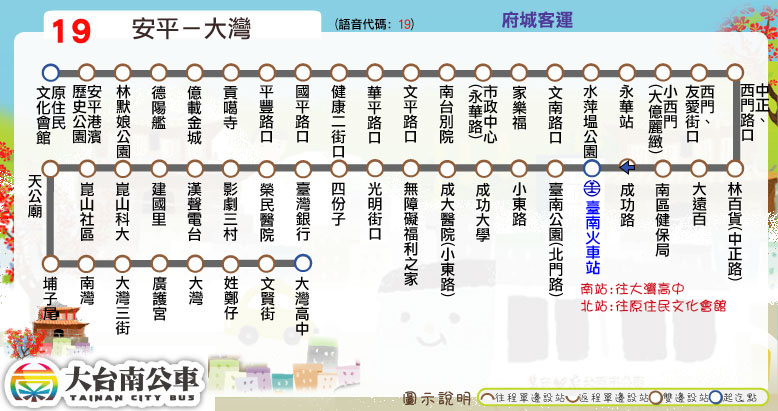
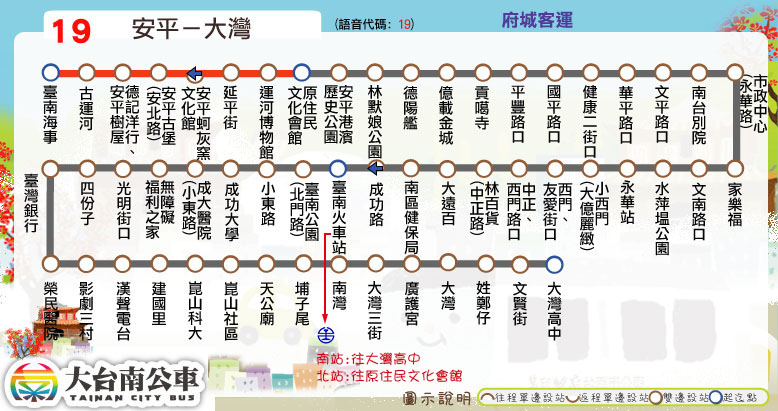
更新時刻表及路線圖：19路 (平日部分班次延駛臺南海事)

Changed region(s): [[0.0308, 0.146, 1.0, 0.9343], [0.0308, 0.4088, 0.0617, 0.5547], [0.3085, 0.6131, 0.3393, 0.6423]]

diff --git a/route/fare_and_time/city_bus_19.js b/route/fare_and_time/city_bus_19.js
@@ -1,22 +1,30 @@
 // format = [time at the start stop] or
 // [time, other] or
 // [time, start_stop, end_stop, other]
-city_bus_19_main_stop_name = ["原住民<br />文化會館","億載金城","市政中心<br />(永華路)","林百貨<br />(中正路)","臺南<br />火車站","成功大學","崑山科大","大灣高中"];
-city_bus_19_main_stop_time_consume = [0, 4, 10, 22, 30, 34, 50, 60];
-city_bus_19_important_stop = [0, 4, 7]; // 原住民文化會館, 臺南火車站, 大灣高中
-start_idx = 4;
-end_idx = 7;
-end_idx2 = 0;
-city_bus_19_time_go = [["05:50",start_idx,end_idx,[[end_idx-1,-5,end_idx,-5]]],["06:10",start_idx,end_idx,[[end_idx,-5]]],
-["06:30",start_idx,end_idx],["06:20"],["06:40",[[3,-3,4,-2]]],["07:10"],["07:55",[[3,-3,4,-2]]],["08:40",[[3,-3,4,-2]]],
-["09:25",[[3,-3,4,-2]]],["10:10"],["10:55",[[3,-3,4,-2]]],["11:40"],["12:25",[[2,3,3,2]]],["13:10",[[3,-3,4,-2]]],["13:55"],
-["14:40",[[3,-3,4,-2]]],["15:15",[[3,-3,4,-2]]],["16:00",start_idx,end_idx],["16:00",[[3,-3,4,-2]]],["16:45"],
-["17:30",start_idx,end_idx],["17:25"],["18:10",[[3,-3,4,-2]]],["18:55"],["19:40",[[3,-3,4,-2]]],["20:25",[[3,-3,4,-2]]],
-["21:10",[[3,-3,4,-2]]],["22:00",[[3,-3,4,-2]]]
+city_bus_19_main_stop_name = ["臺南海事","原住民<br />文化會館","億載金城","市政中心<br />(永華路)","林百貨<br />(中正路)","臺南<br />火車站","成功大學","崑山科大","大灣高中"];
+city_bus_19_main_stop_time_consume = [0, 7, 11, 17, 29, 37, 41, 57, 67];
+city_bus_19_important_stop = [0, 1, 5, 8]; // 臺南海事, 原住民文化會館, 臺南火車站, 大灣高中
+var tra_tainan = 5; // 臺南火車站
+var start_stop = 1; // 原住民文化會館
+var end_stop = 8; // 大灣高中
+city_bus_19_time_go = [["05:50",tra_tainan,end_stop,[[end_stop-1,-5,end_stop,-5]]],["06:10",tra_tainan,end_stop,[[end_stop,-5]]],
+["06:30",tra_tainan,end_stop],["06:20",start_stop,end_stop],["06:45",start_stop,end_stop,[[tra_tainan-1,-3,tra_tainan,-2]]],
+["07:18",['W']],["08:00",start_stop,end_stop,[[tra_tainan-1,-3,tra_tainan,-2]]],["08:40",start_stop,end_stop,[[tra_tainan-1,-3,tra_tainan,-2]]],
+["09:25",start_stop,end_stop,[[tra_tainan-1,-3,tra_tainan,-2]]],["10:10",start_stop,end_stop],["10:55",start_stop,end_stop,[[tra_tainan-1,-3,tra_tainan,-2]]],
+["11:40",start_stop,end_stop],["12:25",start_stop,end_stop,[[2,3,3,2]]],["13:10",start_stop,end_stop,[[tra_tainan-1,-3,tra_tainan,-2]]],["13:55",start_stop,end_stop],
+["14:40",start_stop,end_stop,[[tra_tainan-1,-3,tra_tainan,-2]]],["15:15",start_stop,end_stop,[[tra_tainan-1,-3,tra_tainan,-2]]],
+["16:00",tra_tainan,end_stop],["16:00",start_stop,end_stop,[[tra_tainan-1,-3,tra_tainan,-2]]],
+["16:45",start_stop,end_stop],["17:30",tra_tainan,end_stop],["17:23",['W']],
+["18:10",start_stop,end_stop,[[tra_tainan-1,-3,tra_tainan,-2]]],["18:55",start_stop,end_stop],["19:40",start_stop,end_stop,[[tra_tainan-1,-3,tra_tainan,-2]]],
+["20:25",start_stop,end_stop,[[tra_tainan-1,-3,tra_tainan,-2]]],["21:10",start_stop,end_stop,[[tra_tainan-1,-3,tra_tainan,-2]]],
+["22:00",start_stop,end_stop,[[tra_tainan-1,-3,tra_tainan,-2]]]
 ];
-city_bus_19_time_return = [["06:00",start_idx,end_idx2,[[2,-3,1,-5,0,-2]]],["06:10",start_idx,end_idx2],["06:10"],
-["06:35",[[start_idx+1,-5]]],["07:00"],["07:40"],["08:40"],["09:30",[[start_idx,-5]]],["10:15"],["11:00"],["11:45"],
-["12:20",[[start_idx+1,-5]]],["13:05"],["13:50",[[start_idx+1,-5]]],["14:35"],["15:20"],["16:00",[[start_idx,5]]],
-["16:30",[[start_idx,5]]],["17:15"],["17:35"],["18:00"],["18:55",[[start_idx,5]]],["19:40"],["20:25"],["21:10"],
-["21:30",end_idx,start_idx],["22:00",[[start_idx+1,-5]]]
+city_bus_19_time_return = [["06:00",tra_tainan,start_stop,[[3,-3,2,-5,1,-2]]],["06:10",tra_tainan,start_stop],["06:10",['W']],
+["06:35",end_stop,start_stop,[[tra_tainan+1,-5]]],["07:00",end_stop,start_stop],["07:40",end_stop,start_stop],["08:40",end_stop,start_stop],
+["09:30",end_stop,start_stop,[[tra_tainan,-5]]],["10:15",end_stop,start_stop],["11:00",end_stop,start_stop],["11:45",end_stop,start_stop],
+["12:20",end_stop,start_stop,[[tra_tainan+1,-5]]],["13:05",end_stop,start_stop],["13:50",end_stop,start_stop,[[tra_tainan+1,-5]]],
+["14:35",end_stop,start_stop],["15:20",end_stop,start_stop],["16:00",['W',[tra_tainan,5]]],
+["16:30",end_stop,start_stop,[[tra_tainan,5]]],["17:15",end_stop,start_stop],["17:35",end_stop,start_stop],["18:00",end_stop,start_stop,[[tra_tainan,5]]],
+["18:55",end_stop,start_stop,[[tra_tainan,5]]],["19:40",end_stop,start_stop],["20:25",end_stop,start_stop],["21:10",end_stop,start_stop],
+["21:30",end_stop,tra_tainan],["22:00",end_stop,start_stop,[[tra_tainan+1,-5]]]
 ];

diff --git a/tools/route_infor.js b/tools/route_infor.js
@@ -107,7 +107,7 @@ urban_14_route = '臺南火車站 ─ 億載金城';
 urban_15_route = '奇美醫院 ─ 大成國中';
 urban_17_route = '原住民文化會館 ─ 興達港觀光魚市';
 urban_18_route = '臺南站 ─ 塭南里 ─ 臺灣歷史博物館';
-urban_19_route = '原住民文化會館 ─ 大灣高中';
+urban_19_route = '安平 ─ 臺南火車站 ─ 大灣高中';
 urban_20_route = '南紡購物中心 ─ 安南醫院 ─ 海東國小';
 urban_21_route = '臺南火車站 ─ 鹽行 ─ 永康工業區';
 urban_77_route = '原住民文化會館 ─ 南紡購物中心';

diff --git a/urban/19.html b/urban/19.html
@@ -20,7 +20,7 @@
 	block_route_map(null);
 	block_route_info(route_interval,'府城客運','尖20離45','一段票','http://2384.tainan.gov.tw:8080/AGPSRemoteQuery3/ajaxBus.jsp?pathId=10019&locale=zh_TW');
 	block_fare(1, null);
-	block_time_schedule('原住民文化會館','大灣高中','');
+	block_time_schedule('臺南海事/原住民文化會館','大灣高中',W_message);
 	block_transfer(transfer_aboriginal_culture_center + transfer_tainan_railway_station + transfer_kun_shan_university );
 	block_copyright();
 </script>
